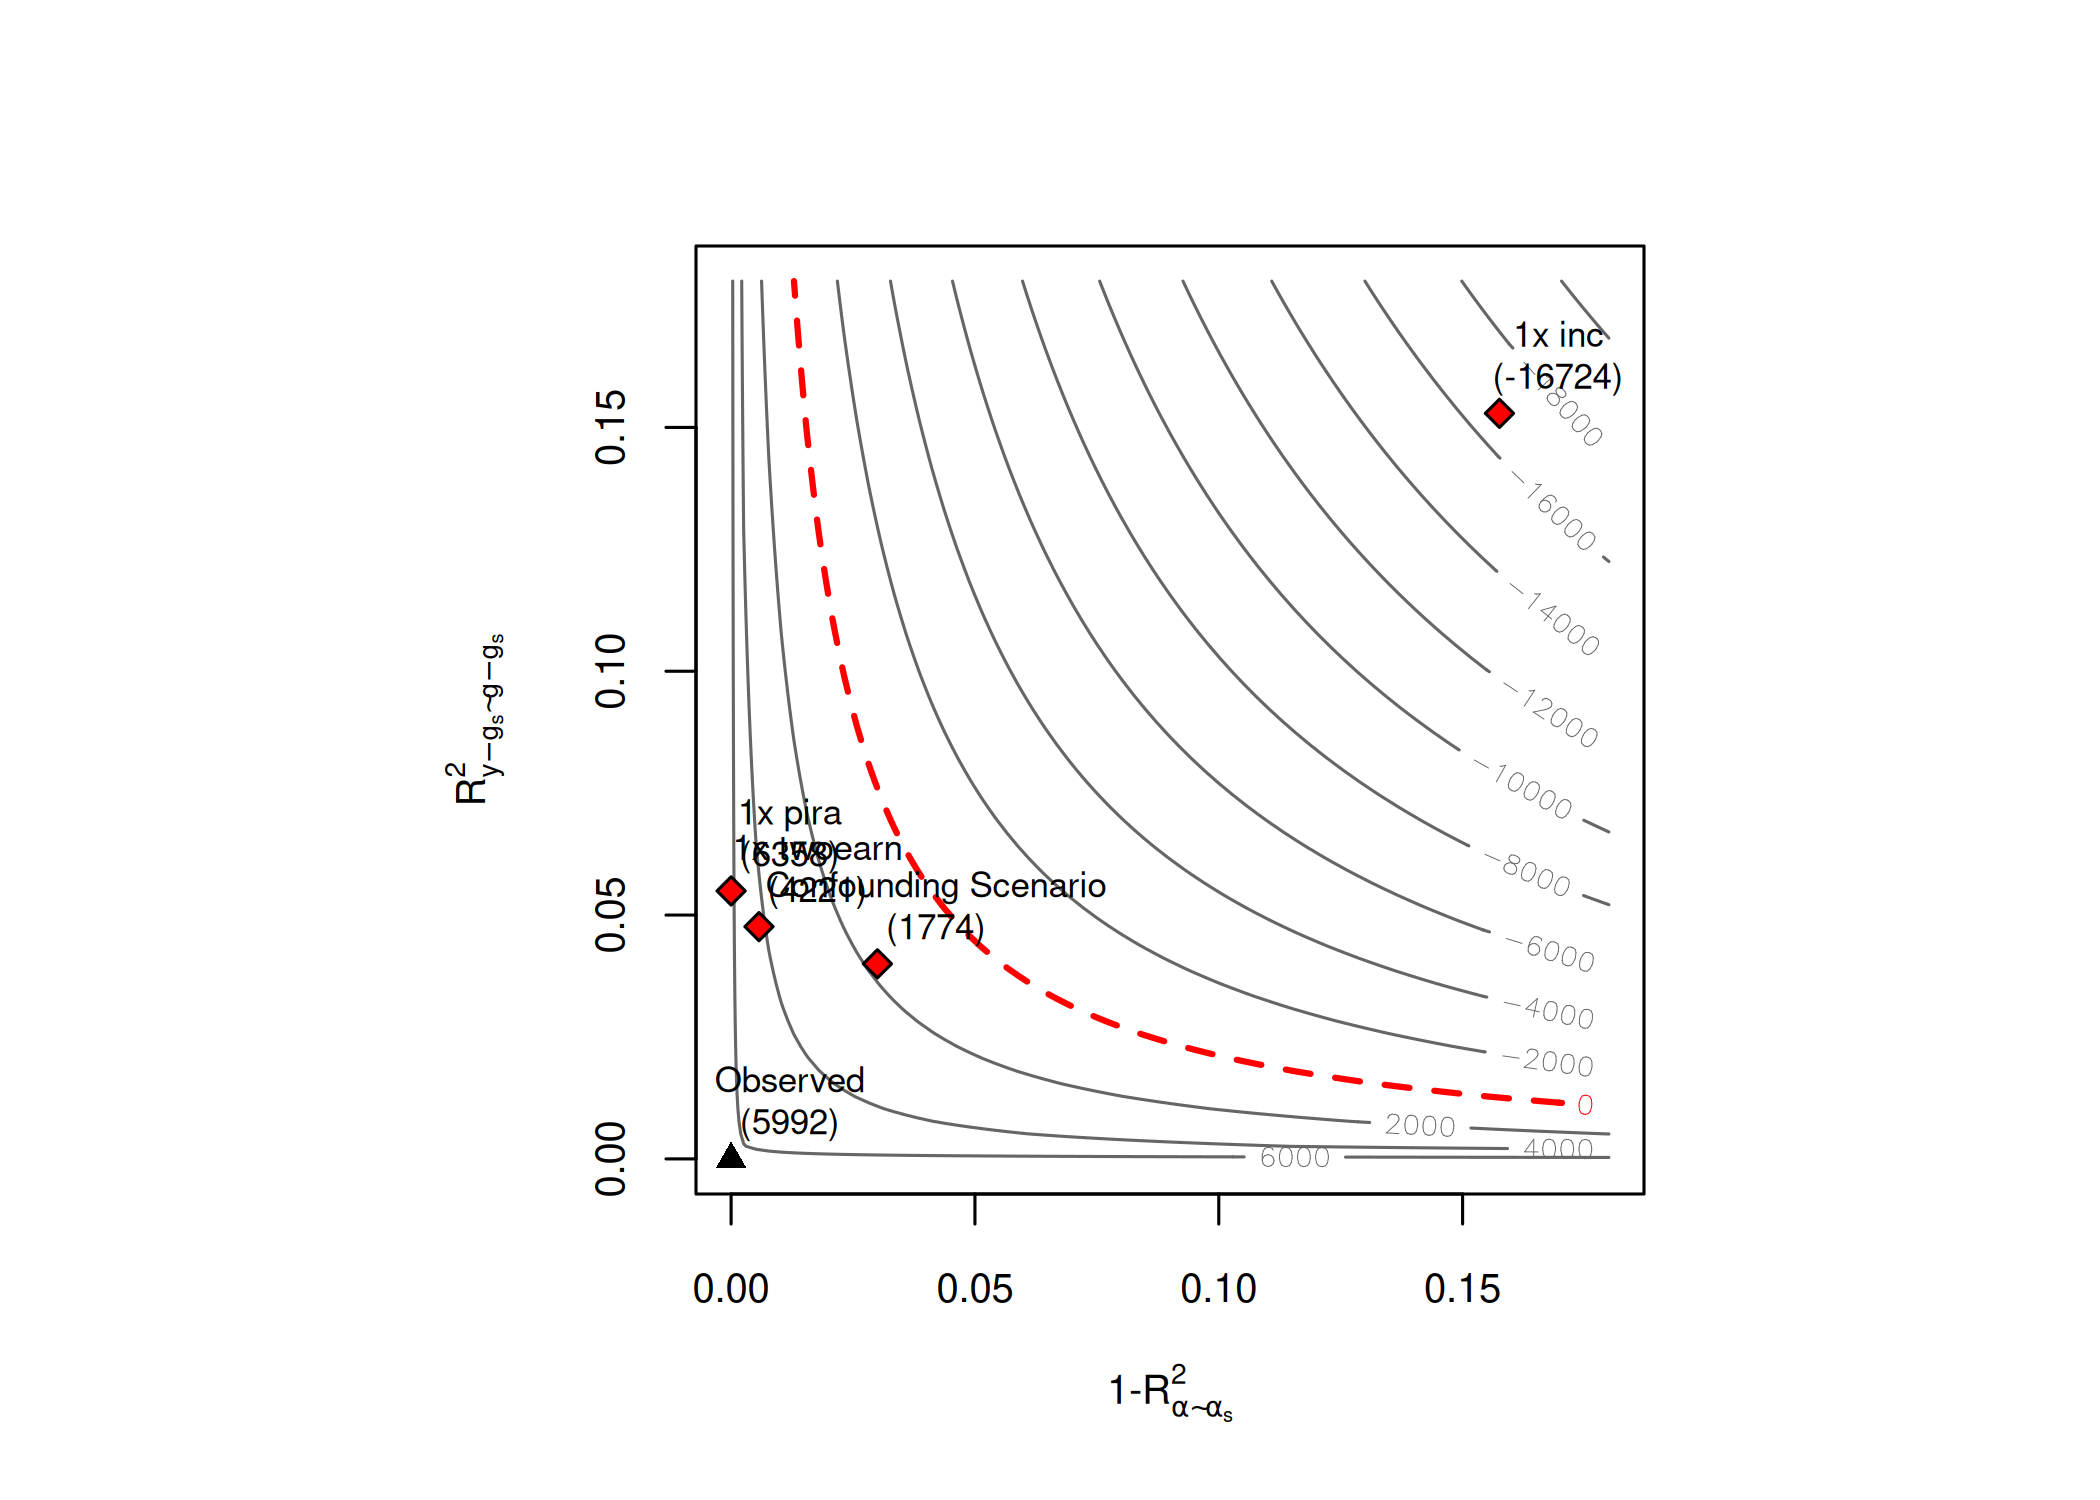
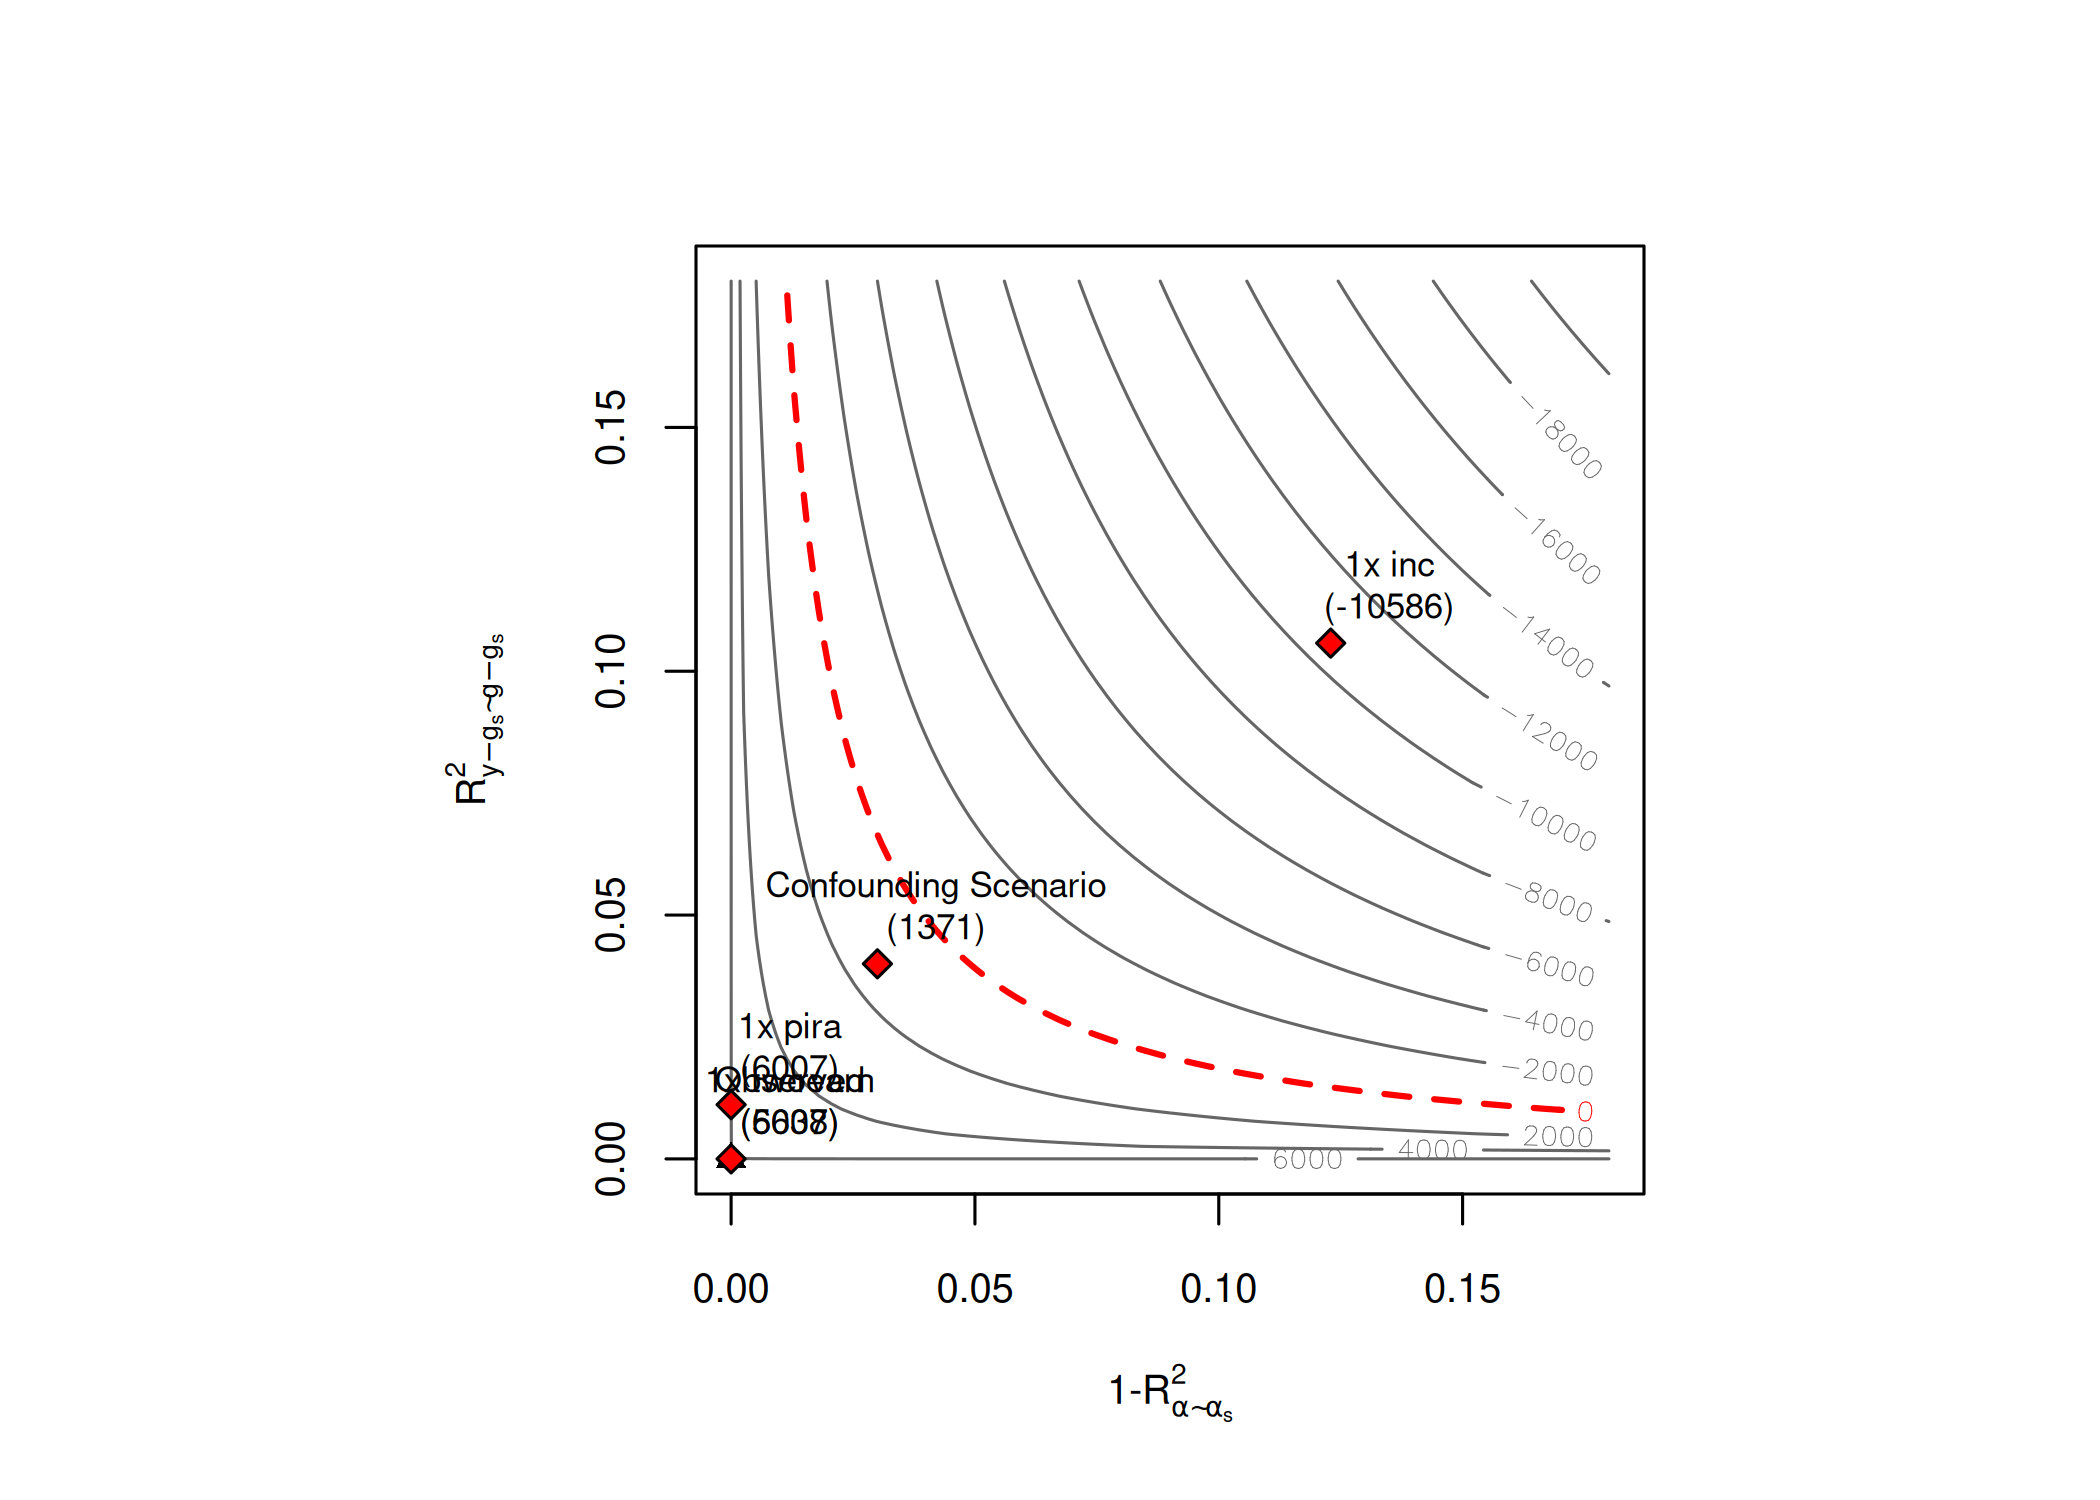
Add RESTAT replication vignette, fix exports, add seeds
- New vignette restat-replication.Rmd replicating the paper's 401(k)
  analysis with automated benchmark overlay (PLM and NPM)
- Fix duplicate @exportS3Method roxygen tags
- Export add_bound_to_contour and S3 methods in NAMESPACE
- Add set.seed(1) to README and vignette for reproducibility

https://claude.ai/code/session_01M8kpgYhRorb6sLDk6PK1ms

diff --git a/README.md b/README.md
@@ -65,6 +65,7 @@ d <- pension$e401     # 401K eligibility
 x <- model.matrix(~ -1 + age + inc  + educ+ fsize + marr + twoearn + pira + hown, data = pension)
 
 # run DML (nonparametric model)
+set.seed(1)
 dml.401k <- dml(y, d, x, model = "npm")
 #> Debiased Machine Learning
 #> 
@@ -105,13 +106,13 @@ summary(dml.401k)
 #> 
 #>  Model: Nonparametric 
 #>  Cross-Fitting: 5 folds, 1 reps 
-#>  ML Method: outcome (yreg0:ranger, yreg1:ranger, R2 = 27.104%), treatment (ranger, R2 = 11.523%)
+#>  ML Method: outcome (yreg0:ranger, yreg1:ranger, R2 = 24.281%), treatment (ranger, R2 = 11.335%)
 #>  Tuning: dirty 
 #> 
 #> Average Treatment Effect: 
 #> 
 #>         Estimate Std. Error t value  P(>|t|)    
-#> ate.all     8268       1161    7.12 1.08e-12 ***
+#> ate.all     7936       1173   6.767 1.31e-11 ***
 #> ---
 #> Signif. codes:  0 '***' 0.001 '**' 0.01 '*' 0.05 '.' 0.1 ' ' 1
 #> Note: DML estimates combined using the median method.
@@ -136,13 +137,13 @@ summary(sens.401k)
 #> 
 #>  Model: Nonparametric 
 #>  Cross-Fitting: 5 folds, 1 reps 
-#>  ML Method: outcome (yreg0:ranger, yreg1:ranger, R2 = 27.104%), treatment (ranger, R2 = 11.523%)
+#>  ML Method: outcome (yreg0:ranger, yreg1:ranger, R2 = 24.281%), treatment (ranger, R2 = 11.335%)
 #>  Tuning: dirty 
 #> 
 #> Average Treatment Effect: 
 #> 
 #>         Estimate Std. Error t value  P(>|t|)    
-#> ate.all     8268       1161    7.12 1.08e-12 ***
+#> ate.all     7936       1173   6.767 1.31e-11 ***
 #> ---
 #> Signif. codes:  0 '***' 0.001 '**' 0.01 '*' 0.05 '.' 0.1 ' ' 1
 #> Note: DML estimates combined using the median method.
@@ -158,7 +159,7 @@ summary(sens.401k)
 #> 
 #> Robustness Values:
 #>         RV (%) RVa (%)
-#> ate.all 6.2288  4.7312
+#> ate.all 5.9566  4.4334
 #> 
 #> Verbal interpretation of robustness values:
 #> 
@@ -169,8 +170,8 @@ summary(sens.401k)
 #>  The interpretation of sensitivity parameters can be further refined for each target quantity. See more below.
 #> 
 #> Confidence Bounds for Sensitivity Scenario:
-#>               lwr       upr
-#> ate.all  1773.695 14797.656
+#>              lwr      upr
+#> ate.all  1370.64 14484.13
 #> 
 #> Confidence level: point = 95%; region = 90%.
 #> Sensitivity parameters: cf.y = 0.04; cf.d = 0.03; rho2 = 1.
@@ -179,10 +180,10 @@ summary(sens.401k)
 #> 
 #> -- The table shows the lower (lwr) and upper (upr) limits of the confidence bounds on the target quantity, considering omitted variables with postulated sensitivity parameters cf.y, cf.d and rho2. The confidence level "point" is the relevant coverage for most use cases, and stands for the coverage rate for the true target quantity. The confidence level "region" stands for the coverage rate of the true bounds.
 #> Benchmark Statistic for Sensitivity Scenario:
-#>          gain.Y   gain.D     rho theta.s theta.sj  delta
-#> twoearn 0.04763 0.005716 -0.4279    8268     7363 -904.8
-#> pira    0.05495 0.000000  0.0000    8268     8477  209.0
-#> inc     0.15289 0.157558  0.1787    8268    11582 3313.8
+#>          gain.Y gain.D    rho theta.s theta.sj  delta
+#> twoearn 0.00000  0.000 0.0000    7936     7256 -680.5
+#> pira    0.01112  0.000 0.0000    7936     8279  342.5
+#> inc     0.10577  0.123 0.2795    7936    11823 3886.7
 #> 
 #> Verbal interpretation of Benchmark Statistic:
 #> 
